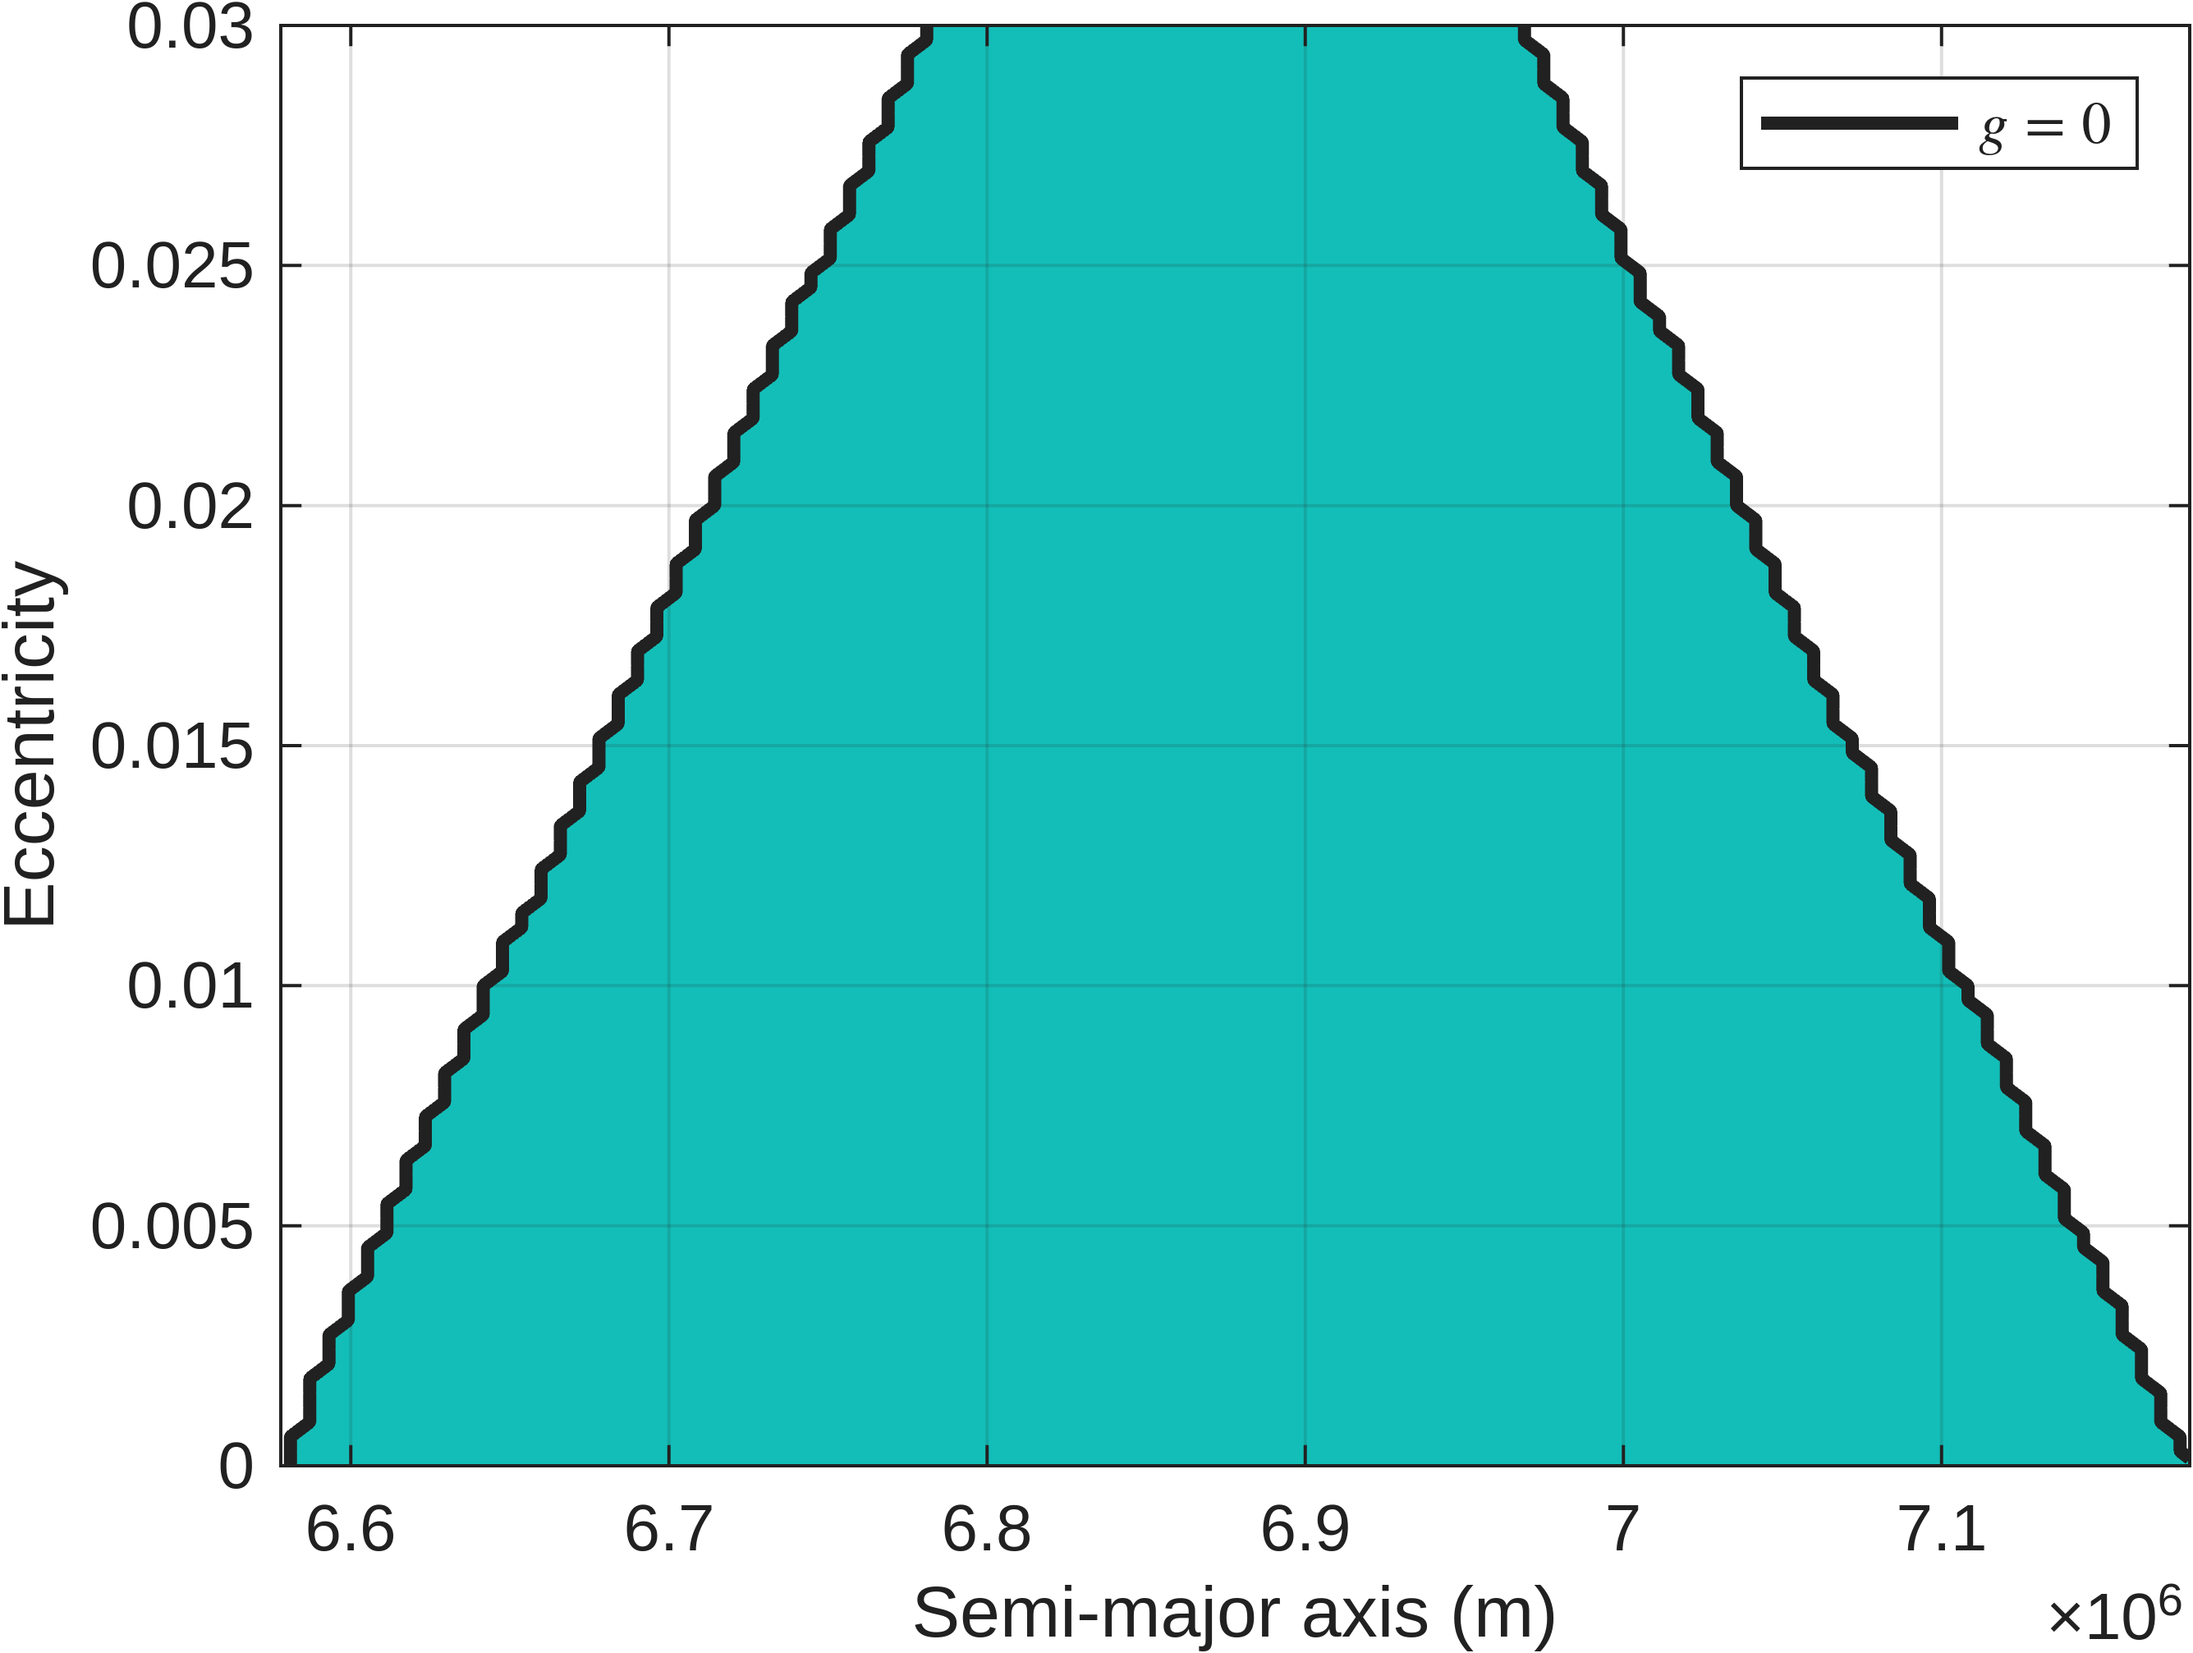
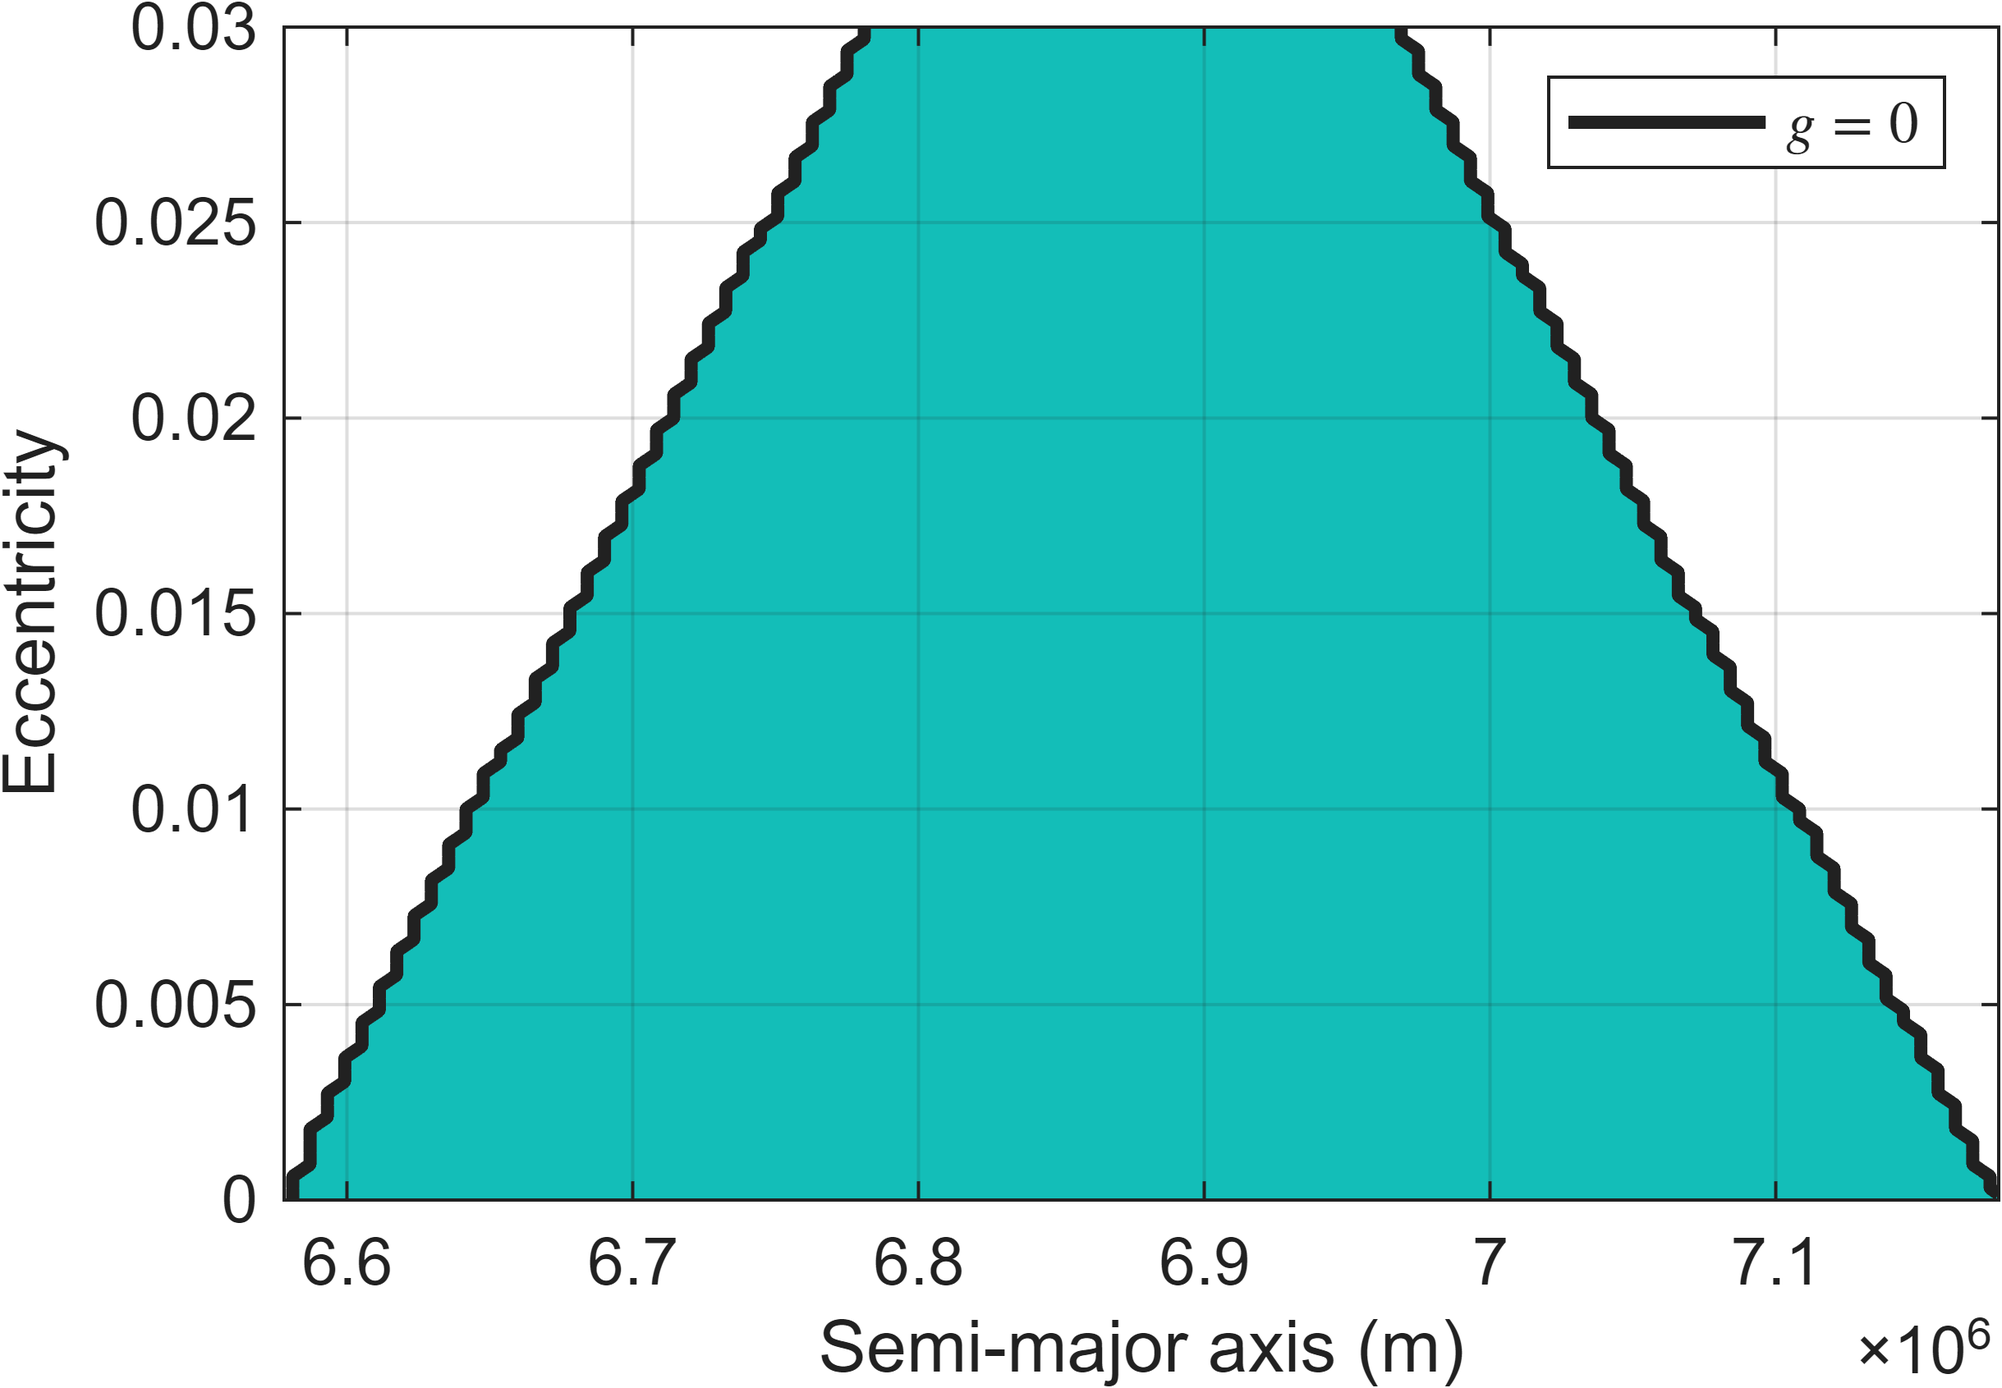
adjust plots

Changed region(s): [[0.0, 0.0, 1.0, 1.0], [0.9352, 0.9533, 0.9975, 1.0]]

diff --git a/main.m b/main.m
@@ -106,18 +106,18 @@ for i = 1:length(y0)
     constraint2 = constraints2(i, :);
 
     figure;
-    plot(kep_values(domains(i, :), i), costs(i, :), 'LineWidth', 2);
+    plot(kep_values(domains(i, :), i), costs(i, :), LineWidth = 2);
     xlabel(kep_label(i), Interpreter = "latex")
     ylabel('Cost')
     % Plot constraints on a different y-axis
     yyaxis right;
-    plot(kep_values(domains(i, :), i), constraint1, 'LineWidth', 2);
+    plot(kep_values(domains(i, :), i), constraint1, LineWidth = 2);
     hold on;
-    plot(kep_values(domains(i, :), i), constraint2, 'LineWidth', 2);
+    plot(kep_values(domains(i, :), i), constraint2, LineWidth = 2);
     ylabel('$g$ constraints', Interpreter = "latex")
     grid on;
     legend('Cost', '$g_1$', '$g_2$', Interpreter = "latex")
-    savefig(sprintf('boundedness_%d.png', i), [4 3]),
+    savefig(sprintf('boundedness_%d.png', i), [2 1.5]),
 end
 
 fprintf('Boundedness plots saved.\n')
@@ -140,7 +140,7 @@ xlabel('Semi-major axis (m)')
 ylabel('Eccentricity')
 legend('$g = 0$', Interpreter = "latex")
 grid on;
-savefig('feasible_region.png', [4 3])
+savefig('feasible_region.png', [3 2])
 
 fprintf('Feasible region plot saved.\n')
 
@@ -190,13 +190,13 @@ else
 end
 
 figure;
-surfc(inc_domain, raan_domain, cost_values, 'EdgeColor', 'none')
+surfc(inc_domain, raan_domain, cost_values, EdgeColor = 'none')
 xlabel('Inclination (rad)')
 ylabel('RAAN (rad)')
 zlabel('Cost')
 grid on;
 view(130, 45)
-savefig('simplified_cost_surface.png', [4 3])
+savefig('simplified_cost_surface.png', [3 2])
 
 % Also make an isoline plot
 figure;
@@ -205,7 +205,7 @@ xlabel('Inclination (rad)')
 ylabel('RAAN (rad)')
 colorbar
 grid on;
-savefig('simplified_cost_contour.png', [4 3])
+savefig('simplified_cost_contour.png', [3 2])
 
 % Simplified problem local optimization
 
@@ -227,15 +227,26 @@ end
 
 % Plot the local minima on the cost surface
 figure;
-surfc(inc_domain, raan_domain, cost_values, 'EdgeColor', 'none')
+surfc(inc_domain, raan_domain, cost_values, EdgeColor = 'none')
 hold on;
-plot3(local_minima(:, 1), local_minima(:, 2), local_minima_costs, 'ro', 'MarkerSize', 10, 'LineWidth', 2)
+plot3(local_minima(:, 1), local_minima(:, 2), local_minima_costs, 'ro', MarkerSize = 10, LineWidth = 2)
 xlabel('Inclination (rad)')
 ylabel('RAAN (rad)')
 zlabel('Cost')
 grid on;
 view(130, 45)
-savefig('simplified_cost_surface_local.png', [4 3])
+savefig('simplified_cost_surface_local.png', [3 2])
+
+% And on the contour plot
+figure;
+contourf(inc_domain, raan_domain, cost_values, 10, LineWidth = 1)
+hold on;
+plot(local_minima(:, 1), local_minima(:, 2), 'ro', MarkerSize = 10, LineWidth = 2)
+xlabel('Inclination (rad)')
+ylabel('RAAN (rad)')
+colorbar
+grid on;
+savefig('simplified_cost_contour_local.png', [3 2])
 
 % Simplified problem optimization
 
@@ -244,26 +255,26 @@ options = optimoptions('particleswarm', Display = 'iter', UseParallel = true);
 
 % plot the optimal point on the cost surface
 figure;
-surfc(inc_domain, raan_domain, cost_values, 'EdgeColor', 'none')
+surfc(inc_domain, raan_domain, cost_values, EdgeColor = 'none')
 hold on;
-plot3(x_opt(1), x_opt(2), fval, 'ro', 'MarkerSize', 10, 'LineWidth', 2)
+plot3(x_opt(1), x_opt(2), fval, 'ro', MarkerSize = 10, LineWidth = 2)
 xlabel('Inclination (rad)')
 ylabel('RAAN (rad)')
 zlabel('Cost')
 grid on;
 view(130, 45)
-savefig('simplified_cost_surface_opt.png', [4 3])
+savefig('simplified_cost_surface_opt.png', [3 2])
 
 % plot the optimal point on the 2D contour as well
 figure;
 contourf(inc_domain, raan_domain, cost_values, 10, LineWidth = 1)
 hold on;
-plot(x_opt(1), x_opt(2), 'ro', 'MarkerSize', 10, 'LineWidth', 2)
+plot(x_opt(1), x_opt(2), 'ro', MarkerSize = 10, LineWidth = 2)
 xlabel('Inclination (rad)')
 ylabel('RAAN (rad)')
 colorbar
 grid on;
-savefig('simplified_cost_contour_opt.png', [4 3])
+savefig('simplified_cost_contour_opt.png', [3 2])
 
 % Set back the number of satellites
 settings.num_sats = original_sats;
